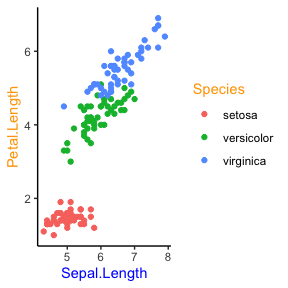
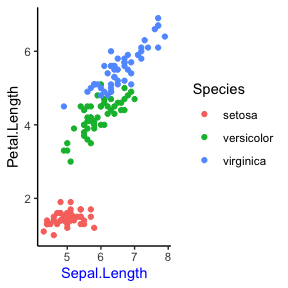
added legend functions

Changed region(s): [[0.6562, 0.2812, 0.8438, 0.3438], [0.0, 0.2812, 0.0938, 0.5938]]

diff --git a/docs/articles/legend.html b/docs/articles/legend.html
@@ -5,13 +5,13 @@
 <meta charset="utf-8">
 <meta http-equiv="X-UA-Compatible" content="IE=edge">
 <meta name="viewport" content="width=device-width, initial-scale=1.0">
-<title>Labels • ggx</title>
+<title>Legend • ggx</title>
 <!-- jquery --><script src="https://cdnjs.cloudflare.com/ajax/libs/jquery/3.4.1/jquery.min.js" integrity="sha256-CSXorXvZcTkaix6Yvo6HppcZGetbYMGWSFlBw8HfCJo=" crossorigin="anonymous"></script><!-- Bootstrap --><link rel="stylesheet" href="https://cdnjs.cloudflare.com/ajax/libs/twitter-bootstrap/3.4.1/css/bootstrap.min.css" integrity="sha256-bZLfwXAP04zRMK2BjiO8iu9pf4FbLqX6zitd+tIvLhE=" crossorigin="anonymous">
 <script src="https://cdnjs.cloudflare.com/ajax/libs/twitter-bootstrap/3.4.1/js/bootstrap.min.js" integrity="sha256-nuL8/2cJ5NDSSwnKD8VqreErSWHtnEP9E7AySL+1ev4=" crossorigin="anonymous"></script><!-- bootstrap-toc --><link rel="stylesheet" href="../bootstrap-toc.css">
 <script src="../bootstrap-toc.js"></script><!-- Font Awesome icons --><link rel="stylesheet" href="https://cdnjs.cloudflare.com/ajax/libs/font-awesome/5.12.1/css/all.min.css" integrity="sha256-mmgLkCYLUQbXn0B1SRqzHar6dCnv9oZFPEC1g1cwlkk=" crossorigin="anonymous">
 <link rel="stylesheet" href="https://cdnjs.cloudflare.com/ajax/libs/font-awesome/5.12.1/css/v4-shims.min.css" integrity="sha256-wZjR52fzng1pJHwx4aV2AO3yyTOXrcDW7jBpJtTwVxw=" crossorigin="anonymous">
 <!-- clipboard.js --><script src="https://cdnjs.cloudflare.com/ajax/libs/clipboard.js/2.0.6/clipboard.min.js" integrity="sha256-inc5kl9MA1hkeYUt+EC3BhlIgyp/2jDIyBLS6k3UxPI=" crossorigin="anonymous"></script><!-- headroom.js --><script src="https://cdnjs.cloudflare.com/ajax/libs/headroom/0.11.0/headroom.min.js" integrity="sha256-AsUX4SJE1+yuDu5+mAVzJbuYNPHj/WroHuZ8Ir/CkE0=" crossorigin="anonymous"></script><script src="https://cdnjs.cloudflare.com/ajax/libs/headroom/0.11.0/jQuery.headroom.min.js" integrity="sha256-ZX/yNShbjqsohH1k95liqY9Gd8uOiE1S4vZc+9KQ1K4=" crossorigin="anonymous"></script><!-- pkgdown --><link href="../pkgdown.css" rel="stylesheet">
-<script src="../pkgdown.js"></script><meta property="og:title" content="Labels">
+<script src="../pkgdown.js"></script><meta property="og:title" content="Legend">
 <meta property="og:description" content="ggx">
 <!-- mathjax --><script src="https://cdnjs.cloudflare.com/ajax/libs/mathjax/2.7.5/MathJax.js" integrity="sha256-nvJJv9wWKEm88qvoQl9ekL2J+k/RWIsaSScxxlsrv8k=" crossorigin="anonymous"></script><script src="https://cdnjs.cloudflare.com/ajax/libs/mathjax/2.7.5/config/TeX-AMS-MML_HTMLorMML.js" integrity="sha256-84DKXVJXs0/F8OTMzX4UR909+jtl4G7SPypPavF+GfA=" crossorigin="anonymous"></script><!--[if lt IE 9]>
 <script src="https://oss.maxcdn.com/html5shiv/3.7.3/html5shiv.min.js"></script>
@@ -75,61 +75,44 @@
 
       
 
-      </header><script src="labels_files/header-attrs-2.5/header-attrs.js"></script><script src="labels_files/accessible-code-block-0.0.1/empty-anchor.js"></script><link href="labels_files/anchor-sections-1.0/anchor-sections.css" rel="stylesheet">
-<script src="labels_files/anchor-sections-1.0/anchor-sections.js"></script><div class="row">
+      </header><script src="legend_files/header-attrs-2.5/header-attrs.js"></script><script src="legend_files/accessible-code-block-0.0.1/empty-anchor.js"></script><link href="legend_files/anchor-sections-1.0/anchor-sections.css" rel="stylesheet">
+<script src="legend_files/anchor-sections-1.0/anchor-sections.js"></script><div class="row">
   <div class="col-md-9 contents">
     <div class="page-header toc-ignore">
-      <h1 data-toc-skip>Labels</h1>
+      <h1 data-toc-skip>Legend</h1>
                         <h4 class="author">Andreas M. Brandmaier</h4>
             
             <h4 class="date">2020-12-13</h4>
       
       
-      <div class="hidden name"><code>labels.Rmd</code></div>
+      <div class="hidden name"><code>legend.Rmd</code></div>
 
     </div>
 
     
     
-<div id="text" class="section level1">
+<div id="legend" class="section level1">
 <h1 class="hasAnchor">
-<a href="#text" class="anchor"></a>Text</h1>
-<p>There are various ways to set the formatting of labels in plots. First and foremost, you may want to change the label text:</p>
+<a href="#legend" class="anchor"></a>Legend</h1>
+<p>Remove the legend alltogether:</p>
 <div class="sourceCode" id="cb1"><html><body><pre class="r"><span class="fu">ggplot</span>(<span class="kw">data</span><span class="kw">=</span><span class="no">iris</span>,
        <span class="kw">mapping</span><span class="kw">=</span><span class="fu">aes</span>(<span class="kw">x</span><span class="kw">=</span><span class="no">Sepal.Length</span>,
-                  <span class="kw">y</span><span class="kw">=</span><span class="no">Petal.Length</span>, <span class="kw">color</span><span class="kw">=</span><span class="no">Species</span>))+
+                   <span class="kw">y</span><span class="kw">=</span><span class="no">Petal.Length</span>, <span class="kw">color</span><span class="kw">=</span><span class="no">Species</span>))+
   <span class="fu">ggtitle</span>(<span class="st">"Iris"</span>)+
   <span class="fu">geom_point</span>()+
-  <span class="fu"><a href="../reference/gg_.html">gg_</a></span>(<span class="st">"set the x-axis label to 'This is my x-axis'"</span>)+
-  <span class="fu"><a href="../reference/gg_.html">gg_</a></span>(<span class="st">"The y-axis label should be set to 'Welcome to the jungle', please"</span>)
+  <span class="fu"><a href="../reference/gg_.html">gg_</a></span>(<span class="st">"remove legend"</span>)
 <span class="co">#&gt; Registered S3 method overwritten by 'sets':</span>
 <span class="co">#&gt;   method        from   </span>
 <span class="co">#&gt;   print.element ggplot2</span></pre></body></html></div>
-<p><img src="labels_files/figure-html/unnamed-chunk-2-1.png" width="700"></p>
-<div id="rotation" class="section level2">
-<h2 class="hasAnchor">
-<a href="#rotation" class="anchor"></a>Rotation</h2>
+<p><img src="legend_files/figure-html/unnamed-chunk-2-1.png" width="700"></p>
+<p>Change legend font size:</p>
 <div class="sourceCode" id="cb2"><html><body><pre class="r"><span class="fu">ggplot</span>(<span class="kw">data</span><span class="kw">=</span><span class="no">iris</span>,
        <span class="kw">mapping</span><span class="kw">=</span><span class="fu">aes</span>(<span class="kw">x</span><span class="kw">=</span><span class="no">Sepal.Length</span>,
-                  <span class="kw">y</span><span class="kw">=</span><span class="no">Petal.Length</span>, <span class="kw">color</span><span class="kw">=</span><span class="no">Species</span>))+
+                   <span class="kw">y</span><span class="kw">=</span><span class="no">Petal.Length</span>, <span class="kw">color</span><span class="kw">=</span><span class="no">Species</span>))+
   <span class="fu">ggtitle</span>(<span class="st">"Iris"</span>)+
   <span class="fu">geom_point</span>()+
-  <span class="fu"><a href="../reference/gg_.html">gg_</a></span>(<span class="st">"Rotate the x-axis labels by 32°"</span>)+
-  <span class="fu"><a href="../reference/gg_.html">gg_</a></span>(<span class="st">"Rotate the y-axis labels by 172 degrees"</span>)</pre></body></html></div>
-<p><img src="labels_files/figure-html/unnamed-chunk-3-1.png" width="700"></p>
-</div>
-<div id="colors" class="section level2">
-<h2 class="hasAnchor">
-<a href="#colors" class="anchor"></a>Colors</h2>
-<div class="sourceCode" id="cb3"><html><body><pre class="r"><span class="fu">ggplot</span>(<span class="kw">data</span><span class="kw">=</span><span class="no">iris</span>,
-       <span class="kw">mapping</span><span class="kw">=</span><span class="fu">aes</span>(<span class="kw">x</span><span class="kw">=</span><span class="no">Sepal.Length</span>,
-                  <span class="kw">y</span><span class="kw">=</span><span class="no">Petal.Length</span>, <span class="kw">color</span><span class="kw">=</span><span class="no">Species</span>))+
-  <span class="fu">ggtitle</span>(<span class="st">"Iris"</span>)+
-  <span class="fu">geom_point</span>()+
-  <span class="fu"><a href="../reference/gg_.html">gg_</a></span>(<span class="st">"Paint the x-axis label in coral."</span>)+
-  <span class="fu"><a href="../reference/gg_.html">gg_</a></span>(<span class="st">"The label of the y-axis should appear in purple."</span>)</pre></body></html></div>
-<p><img src="labels_files/figure-html/unnamed-chunk-4-1.png" width="700"></p>
-</div>
+  <span class="fu"><a href="../reference/gg_.html">gg_</a></span>(<span class="st">"set font size of legend title to 40"</span>)</pre></body></html></div>
+<p><img src="legend_files/figure-html/unnamed-chunk-3-1.png" width="700"></p>
 </div>
   </div>
 

diff --git a/docs/articles/legend_files/anchor-sections-1.0/anchor-sections.js b/docs/articles/legend_files/anchor-sections-1.0/anchor-sections.js
@@ -1,0 +1,33 @@
+// Anchor sections v1.0 written by Atsushi Yasumoto on Oct 3rd, 2020.
+document.addEventListener('DOMContentLoaded', function() {
+  // Do nothing if AnchorJS is used
+  if (typeof window.anchors === 'object' && anchors.hasOwnProperty('hasAnchorJSLink')) {
+    return;
+  }
+
+  const h = document.querySelectorAll('h1, h2, h3, h4, h5, h6');
+
+  // Do nothing if sections are already anchored
+  if (Array.from(h).some(x => x.classList.contains('hasAnchor'))) {
+    return null;
+  }
+
+  // Use section id when pandoc runs with --section-divs
+  const section_id = function(x) {
+    return ((x.classList.contains('section') || (x.tagName === 'SECTION'))
+            ? x.id : '');
+  };
+
+  // Add anchors
+  h.forEach(function(x) {
+    const id = x.id || section_id(x.parentElement);
+    if (id === '') {
+      return null;
+    }
+    let anchor = document.createElement('a');
+    anchor.href = '#' + id;
+    anchor.classList = ['anchor-section'];
+    x.classList.add('hasAnchor');
+    x.appendChild(anchor);
+  });
+});

diff --git a/docs/articles/legend_files/accessible-code-block-0.0.1/empty-anchor.js b/docs/articles/legend_files/accessible-code-block-0.0.1/empty-anchor.js
@@ -1,0 +1,15 @@
+// Hide empty <a> tag within highlighted CodeBlock for screen reader accessibility (see https://github.com/jgm/pandoc/issues/6352#issuecomment-626106786) -->
+// v0.0.1
+// Written by JooYoung Seo (jooyoung@psu.edu) and Atsushi Yasumoto on June 1st, 2020.
+
+document.addEventListener('DOMContentLoaded', function() {
+  const codeList = document.getElementsByClassName("sourceCode");
+  for (var i = 0; i < codeList.length; i++) {
+    var linkList = codeList[i].getElementsByTagName('a');
+    for (var j = 0; j < linkList.length; j++) {
+      if (linkList[j].innerHTML === "") {
+        linkList[j].setAttribute('aria-hidden', 'true');
+      }
+    }
+  }
+});

diff --git a/docs/articles/legend_files/header-attrs-2.5/header-attrs.js b/docs/articles/legend_files/header-attrs-2.5/header-attrs.js
@@ -1,0 +1,12 @@
+// Pandoc 2.9 adds attributes on both header and div. We remove the former (to
+// be compatible with the behavior of Pandoc < 2.8).
+document.addEventListener('DOMContentLoaded', function(e) {
+  var hs = document.querySelectorAll("div.section[class*='level'] > :first-child");
+  var i, h, a;
+  for (i = 0; i < hs.length; i++) {
+    h = hs[i];
+    if (!/^h[1-6]$/i.test(h.tagName)) continue;  // it should be a header h1-h6
+    a = h.attributes;
+    while (a.length > 0) h.removeAttribute(a[0].name);
+  }
+});

diff --git a/docs/articles/index.html b/docs/articles/index.html
@@ -99,6 +99,9 @@
     <li>
       <a href="../articles/labels.html">Labels</a>
     </li>
+    <li>
+      <a href="../articles/legend.html">Legend</a>
+    </li>
   </ul>
 </li>
       </ul>
@@ -128,6 +131,8 @@
         <dt><a href="colors.html">Colors</a></dt>
         <dd></dt>
         <dt><a href="labels.html">Labels</a></dt>
+        <dd></dt>
+        <dt><a href="legend.html">Legend</a></dt>
         <dd></dt>
       </dl>
     </div>

diff --git a/docs/articles/legend_files/anchor-sections-1.0/anchor-sections.css b/docs/articles/legend_files/anchor-sections-1.0/anchor-sections.css
@@ -1,0 +1,4 @@
+/* Styles for section anchors */
+a.anchor-section {margin-left: 10px; visibility: hidden; color: inherit;}
+a.anchor-section::before {content: '#';}
+.hasAnchor:hover a.anchor-section {visibility: visible;}

diff --git a/docs/reference/gg_.html b/docs/reference/gg_.html
@@ -103,6 +103,9 @@ into a ggplot2 command." />
     <li>
       <a href="../articles/labels.html">Labels</a>
     </li>
+    <li>
+      <a href="../articles/legend.html">Legend</a>
+    </li>
   </ul>
 </li>
       </ul>

diff --git a/docs/reference/gghelp.html b/docs/reference/gghelp.html
@@ -100,6 +100,9 @@
     <li>
       <a href="../articles/labels.html">Labels</a>
     </li>
+    <li>
+      <a href="../articles/legend.html">Legend</a>
+    </li>
   </ul>
 </li>
       </ul>

diff --git a/docs/articles/colors.html b/docs/articles/colors.html
@@ -59,6 +59,9 @@
     <li>
       <a href="../articles/labels.html">Labels</a>
     </li>
+    <li>
+      <a href="../articles/legend.html">Legend</a>
+    </li>
   </ul>
 </li>
       </ul>

diff --git a/docs/reference/index.html b/docs/reference/index.html
@@ -99,6 +99,9 @@
     <li>
       <a href="../articles/labels.html">Labels</a>
     </li>
+    <li>
+      <a href="../articles/legend.html">Legend</a>
+    </li>
   </ul>
 </li>
       </ul>

diff --git a/docs/404.html b/docs/404.html
@@ -99,6 +99,9 @@
     <li>
       <a href="articles/labels.html">Labels</a>
     </li>
+    <li>
+      <a href="articles/legend.html">Legend</a>
+    </li>
   </ul>
 </li>
       </ul>

diff --git a/docs/authors.html b/docs/authors.html
@@ -99,6 +99,9 @@
     <li>
       <a href="articles/labels.html">Labels</a>
     </li>
+    <li>
+      <a href="articles/legend.html">Legend</a>
+    </li>
   </ul>
 </li>
       </ul>
